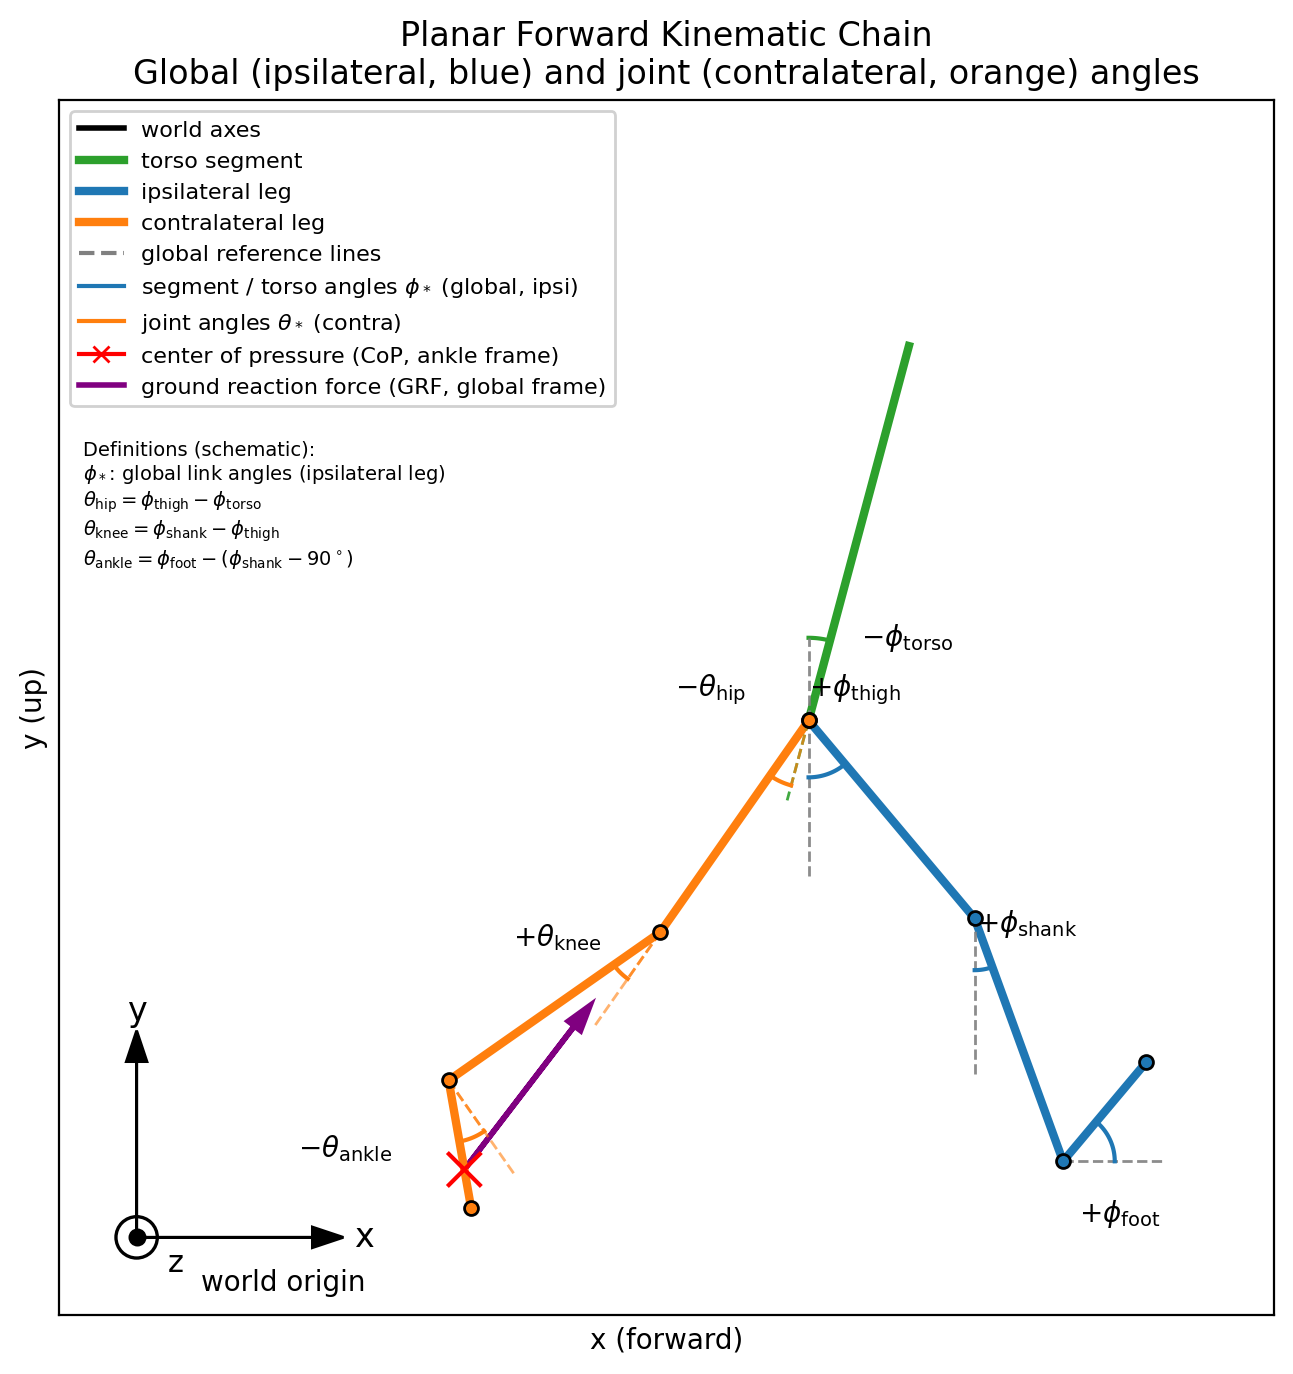
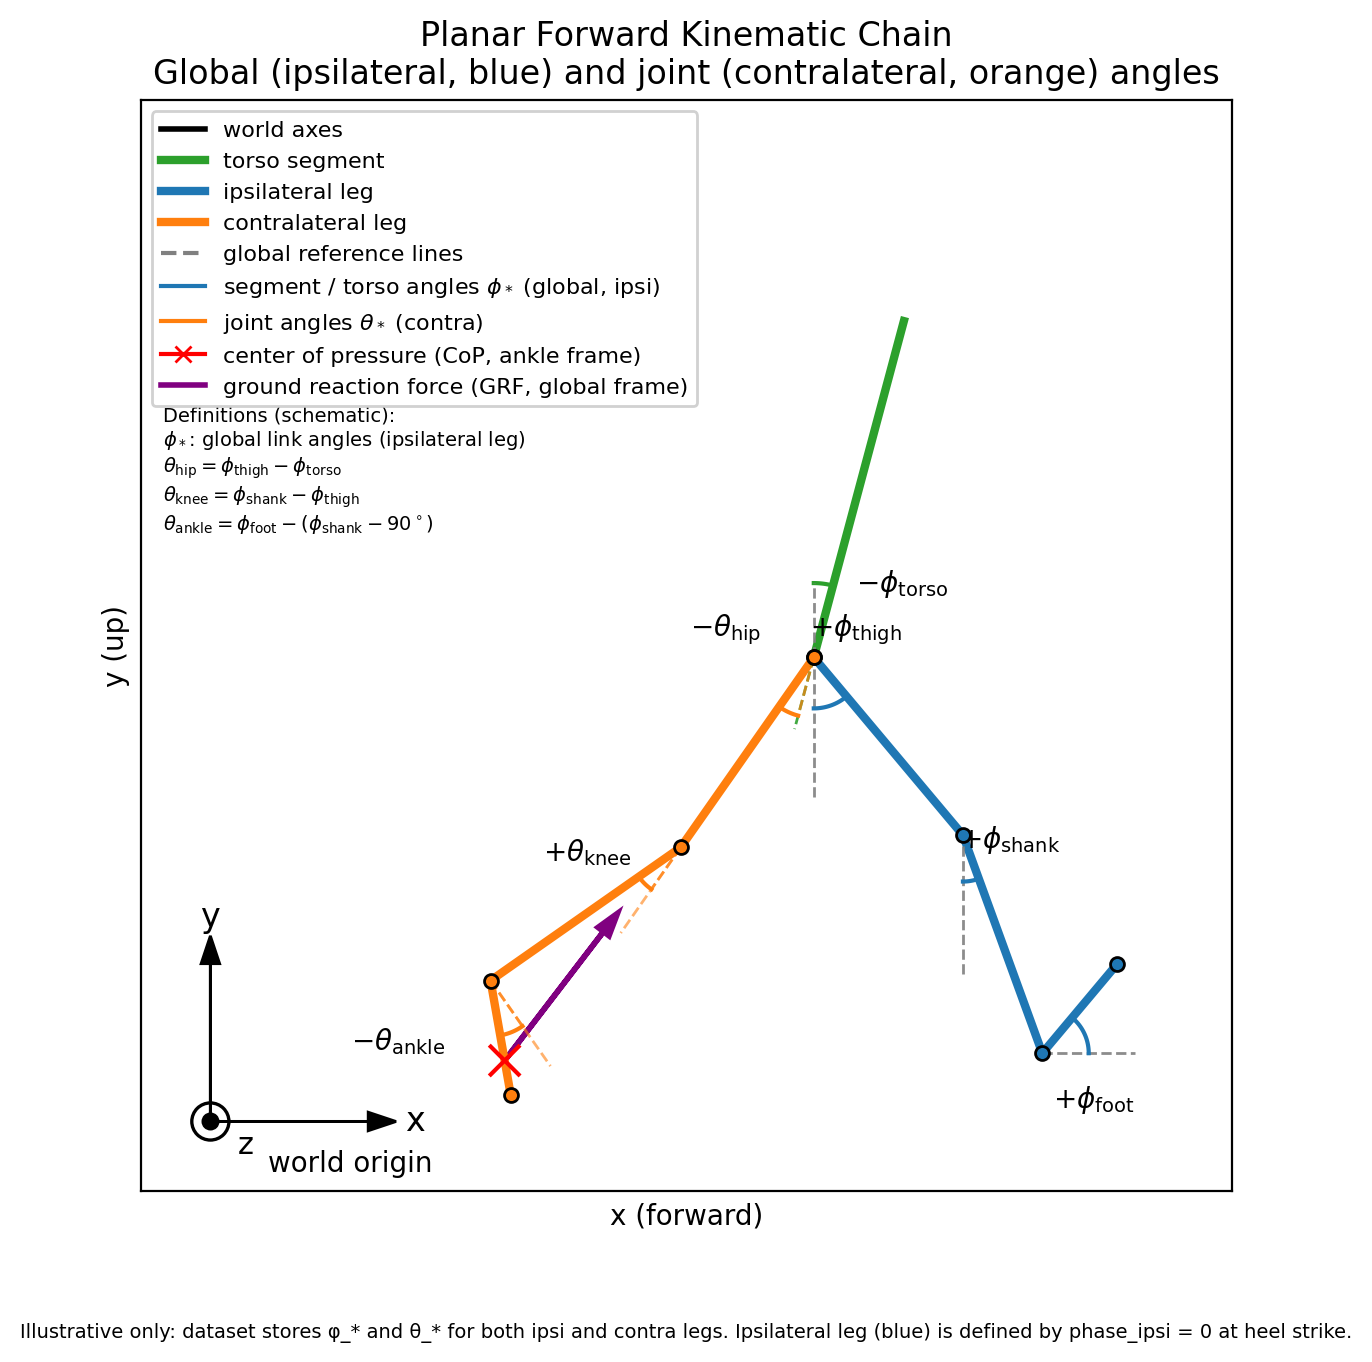
Clarify schematic note placement under kinematics figure

diff --git a/internal/plot_generation/generate_forward_kinematics_reference.py b/internal/plot_generation/generate_forward_kinematics_reference.py
@@ -623,7 +623,8 @@ def generate_reference_figure(output_path: str) -> None:
     )
 
     # Explanatory text below the legend describing how joint angles are
-    # related to link (segment) angles in this schematic.
+    # related to link (segment) angles in this schematic, and how this
+    # illustration relates to the full dataset.
     definitions_text = (
         r"Definitions (schematic):" "\n"
         r"$\phi_*$: global link angles (ipsilateral leg)" "\n"
@@ -638,6 +639,22 @@ def generate_reference_figure(output_path: str) -> None:
         transform=ax.transAxes,
         fontsize=7,
         va="top",
+    )
+
+    schematic_note = (
+        "Illustrative only: dataset stores φ_* and θ_* for both ipsi and contra legs. "
+        "Ipsilateral leg (blue) is defined by phase_ipsi = 0 at heel strike."
+    )
+    # Place this note just below the main x-axis to keep it visually
+    # associated with the overall coordinate frame rather than the legend.
+    ax.text(
+        0.5,
+        -0.12,
+        schematic_note,
+        transform=ax.transAxes,
+        fontsize=7,
+        va="top",
+        ha="center",
     )
 
     # Remove tick labels for a cleaner diagram, keep axes labels
